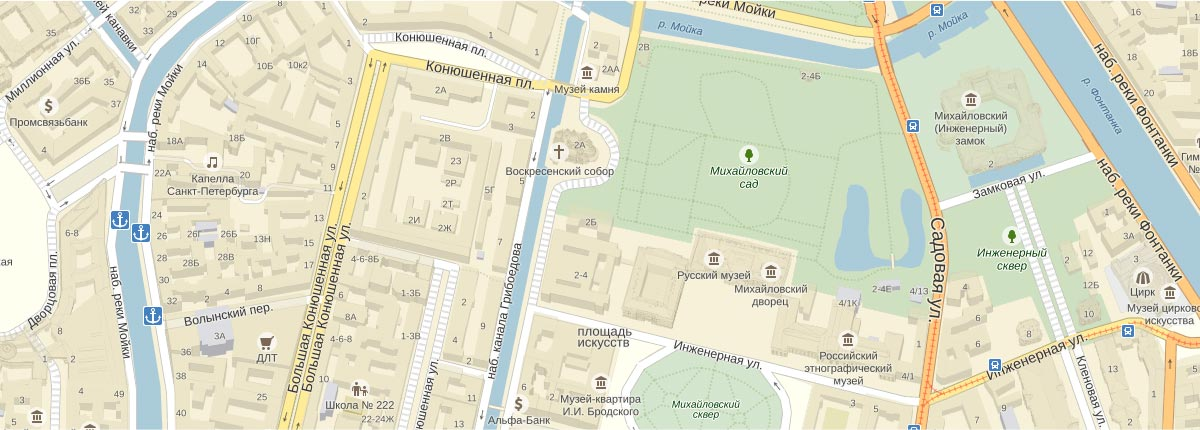
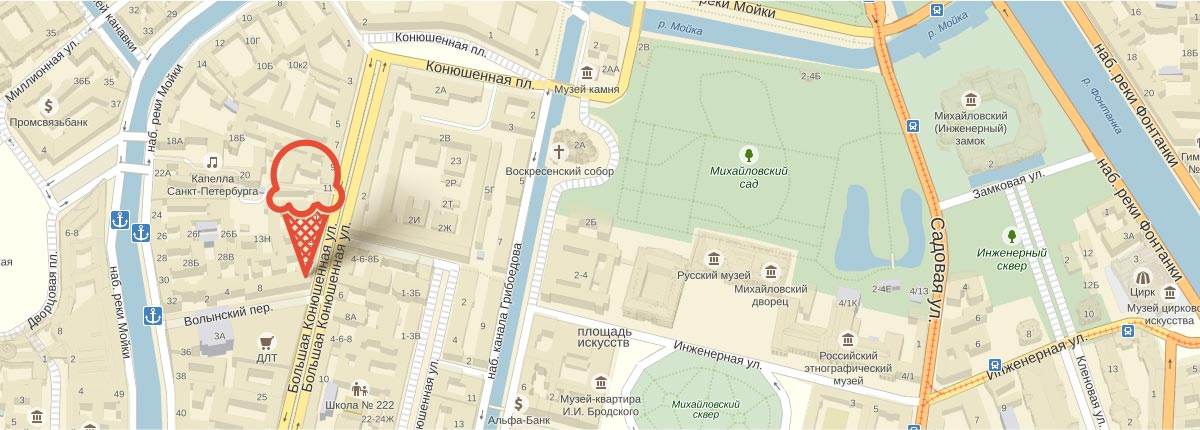
Закончена верста + исправлен JS
- Исправила цену
- Убрала обводку у полей
- Заменила карту
- решила проблему с JS

Осталось добавить интерактивную карту

Changed region(s): [[0.2158, 0.3023, 0.37, 0.6651]]

diff --git a/catalog.html b/catalog.html
@@ -169,28 +169,36 @@
   				<div class="catalog-row clearfix">
   					<div class="catalog-item quickview">
   						<img width="100%" src="img/Catalog/catalog_item_1.png" alt="Сливочное с апельсиновым джемом и цитрусовой стружкой">
-  						<span class="price">310<img class="ruble" width="27" src="img/Catalog/ruble.svg" alt="Р"><strong>/кг</strong></span>
+  						<div class="price">
+                <span class="price">310<img class="ruble" width="27" src="img/Catalog/ruble.svg" alt="Р"><strong>/кг</strong></span>      
+              </div>
   						<a href="#">Сливочное с апельсиновым джемом и цитрусовой стружкой</a>
               <a class="button" href="#">Быстрый просмотр</a>
   					</div>
 
   					<div class="catalog-item quickview">
               <img width="100%" src="img/Catalog/catalog_item_3.png" alt="Cливочно-клубничное с посыпкой из белого шоколада">
-  						<span class="price">380<img class="ruble" width="27" src="img/Catalog/ruble.svg" alt="Р"><strong>/кг</strong></span>
+  						<div class="price">
+                <span class="price">380<img class="ruble" width="27" src="img/Catalog/ruble.svg" alt="Р"><strong>/кг</strong></span>      
+              </div>
   						<a href="#">Cливочно-клубничное с посыпкой из белого шоколада</a>
               <a class="button" href="#">Быстрый просмотр</a>
   					</div>
 
   					<div class="catalog-item quickview">
   						<img width="100%" src="img/Catalog/catalog_item_2.png" alt="Сливочно-кофейное с кусочками шоколада">
-  						<span class="price">355<img class="ruble" width="27" src="img/Catalog/ruble.svg" alt="Р"><strong>/кг</strong></span>
+  						<div class="price">
+                <span class="price">355<img class="ruble" width="27" src="img/Catalog/ruble.svg" alt="Р"><strong>/кг</strong></span>      
+              </div>
   						<a href="#">Сливочно-кофейное с кусочками шоколада</a>
               <a class="button" href="#">Быстрый просмотр</a>
   					</div>
 
   					<div class="catalog-item quickview">
   						<img width="100%" src="img/Catalog/catalog_item_4.png" alt="Сливочное крем-брюле с карамельной подливкой">
-  						<span class="price">415<img class="ruble" width="27" src="img/Catalog/ruble.svg" alt="Р"><strong>/кг</strong></span>
+  						<div class="price">
+                <span class="price">415<img class="ruble" width="27" src="img/Catalog/ruble.svg" alt="Р"><strong>/кг</strong></span>      
+              </div>
   						<a href="#">Сливочное крем-брюле с карамельной подливкой</a>
               <a class="button" href="#">Быстрый просмотр</a>
   					</div>
@@ -200,28 +208,36 @@
   				<div class="catalog-row clearfix">
   					<div class="catalog-item quickview">
   						<img width="100%" src="img/Catalog/catalog_item_5.png" alt="Сливочное с брусничным джемом">
-  						<span class="price">325<img class="ruble" width="27" src="img/Catalog/ruble.svg" alt="Р"><strong>/кг</strong></span>
+  						<div class="price">
+                <span class="price">325<img class="ruble" width="27" src="img/Catalog/ruble.svg" alt="Р"><strong>/кг</strong></span>      
+              </div>
   						<a href="#">Сливочное с брусничным джемом</a>
   						<a class="button" href="#">Быстрый просмотр</a>
   					</div>
 
   					<div class="catalog-item quickview">
   						<img width="100%" src="img/Catalog/catalog_item_6.png" alt="Сливочно-черничное с цельными ягодами черники">
-  						<span class="price">410<img class="ruble" width="27" src="img/Catalog/ruble.svg" alt="Р"><strong>/кг</strong></span>
+  						<div class="price">
+                <span class="price">410<img class="ruble" width="27" src="img/Catalog/ruble.svg" alt="Р"><strong>/кг</strong></span>      
+              </div>
   						<a href="#">Сливочно-черничное с цельными ягодами черники</a>
   						<a class="button" href="#">Быстрый просмотр</a>
   					</div>
 
   					<div class="catalog-item quickview">
   						<img width="100%" src="img/Catalog/catalog_item_7.png" alt="Сливочно-лимонное с карамельной посыпкой">
-  						<span class="price">375<img class="ruble" width="27" src="img/Catalog/ruble.svg" alt="Р"><strong>/кг</strong></span>
+  						<div class="price">
+                <span class="price">375<img class="ruble" width="27" src="img/Catalog/ruble.svg" alt="Р"><strong>/кг</strong></span>      
+              </div>
   						<a href="#">Сливочно-лимонное с карамельной посыпкой</a>
   						<a class="button" href="#">Быстрый просмотр</a>
   					</div>
 
   					<div class="catalog-item quickview">
   						<img width="100%" src="img/Catalog/catalog_item_8.png" alt="Сливочное с шоколадной стружкой">
-  				    <span class="price">320<img class="ruble" width="27" src="img/Catalog/ruble.svg" alt="Р"><strong>/кг</strong></span>
+  				    <div class="price">
+                  <span class="price">320<img class="ruble" width="27" src="img/Catalog/ruble.svg" alt="Р"><strong>/кг</strong></span>    
+              </div>
   						<a href="#">Сливочное с шоколадной стружкой</a>
   						<a class="button" href="#">Быстрый просмотр</a>
   					</div>
@@ -231,28 +247,36 @@
   				<div class="catalog-row clearfix">
   					<div class="catalog-item quickview">
   						<img width="100%" src="img/Catalog/catalog_item_9.png" alt="Сливочное с шоколадной стружкой">
-  						<span class="price">440<img class="ruble" width="27" src="img/Catalog/ruble.svg" alt="Р"><strong>/кг</strong></span>
+  						<div class="price">
+                <span class="price">440<img class="ruble" width="27" src="img/Catalog/ruble.svg" alt="Р"><strong>/кг</strong></span>      
+              </div>
   						<a href="#">Сливочно-ванильное с кусочками шоколада</a>
   						<a class="button" href="#">Быстрый просмотр</a>
   					</div>
 
   					<div class="catalog-item quickview">
   						<img width="100%" src="img/Catalog/catalog_item_10.png" alt="Сливочное с ментоловым сиропом">
-  						<span class="price">435<img class="ruble" width="27" src="img/Catalog/ruble.svg" alt="Р"><strong>/кг</strong></span>
+  						<div class="price">
+                <span class="price">435<img class="ruble" width="27" src="img/Catalog/ruble.svg" alt="Р"><strong>/кг</strong></span>      
+              </div>
   						<a href="#">Сливочное с ментоловым сиропом</a>
   						<a class="button" href="#">Быстрый просмотр</a>
   					</div>
 
   					<div class="catalog-item quickview">
   						<img width="100%" src="img/Catalog/catalog_item_11.png" alt="Cливчное с кусочками сливочного шоколада">
-  						<span class="price">355<img class="ruble" width="27" src="img/Catalog/ruble.svg" alt="Р"><strong>/кг</strong></span>
+  						<div class="price">
+                <span class="price">355<img class="ruble" width="27" src="img/Catalog/ruble.svg" alt="Р"><strong>/кг</strong></span>      
+              </div>
   						<a href="#">Cливчное с кусочками черного шоколада</a>
   						<a class="button" href="#">Быстрый просмотр</a>
   					</div>
 
   					<div class="catalog-item quickview">
   						<img width="100%" src="img/Catalog/catalog_item_12.png" alt="Сливочное с мятным сиропом">
-  						<span class="price">420<img class="ruble" width="27" src="img/Catalog/ruble.svg" alt="Р"><strong>/кг</strong></span>
+  						<div class="price">
+                <span class="price">420<img class="ruble" width="27" src="img/Catalog/ruble.svg" alt="Р"><strong>/кг</strong></span>      
+              </div>
   						<a href="#">Сливочное с мятным сиропом</a>
   						<a class="button" href="#">Быстрый просмотр</a>
   					</div>

diff --git a/css/style.css b/css/style.css
@@ -39,7 +39,9 @@ h3{
 
 input:focus,
 select:focus,
-a:focus {
+a:focus,
+textarea:focus,
+button:focus {
   outline: none;
 }
 
@@ -70,7 +72,6 @@ input.field {
 
 
 .container {
-  outline: 1px solid red;
   position: relative;
   min-width: 900px;
   max-width: 1200px;
@@ -736,14 +737,15 @@ input[type="checkbox"]:checked+label::before {
 }
 
 .catalog-item .price {
+  margin-top: -65px;
+  margin-bottom: 25px; 
+  vertical-align: middle;
   text-align: left;
-  margin-top: ;
   font-size: 45px;
   line-height: 13.13px;
   font-weight: 700;
-  vertical-align: bottom;
-  margin-top: -65px;
-  margin-bottom: 25px;
+  
+
   text-shadow: 1px 1px 3px rgba(49, 50, 53, 0.5);
 }
 
@@ -1038,18 +1040,6 @@ input[type="checkbox"]:checked+label::before {
   width: 100%;
   height: 430px;
   background: url('../img/Index/map.jpg') no-repeat center center;
-/*Решить проблему с обрывающейся картой*/
-}
-
-.map::before {
-  content: "";
-  position: absolute;
-  width: 218px;
-  height: 142px;
-  left: 25%;
-  bottom: 149px;
-  background: url('../img/Index/map_pin.png') no-repeat;
-  /*Маркер*/
 }
 
 .adress {
@@ -1270,7 +1260,14 @@ input[type="checkbox"]:checked+label::before {
 /*Попапы*/
 
   .popup-wrap {
+    position: relative;
     display: none;
+    position: fixed;
+
+    z-index: 1000;
+  }
+
+  .popup-overlay {
     position: fixed;
     top: 0;
     bottom: 0;
@@ -1278,7 +1275,7 @@ input[type="checkbox"]:checked+label::before {
     left: 0;
     background: rgba(0, 0, 0, 0.2);
 
-    z-index: 999;
+    z-index: 1;
   }
 
  .popup-feedback {
@@ -1294,7 +1291,7 @@ input[type="checkbox"]:checked+label::before {
   border-radius: 10px;
   background: #f8f7f4;
 
-  z-index: 1000;
+  z-index: 2;
 }
 
 .popup-feedback span {
@@ -1317,14 +1314,15 @@ input[type="checkbox"]:checked+label::before {
 
 .popup-feedback input {
   margin-top: 20px;
+  padding-left: 20px;
 }
 
 .popup-feedback textarea {
   width: 430px;
   height: 155px;
   margin-top: 20px;
-  padding: 15px 20px;
-  border-radius: 15px;
+  padding: 10px 20px;
+  border-radius: 5px;
   border: 1px solid #d3d3d2;
   font-size: 16px;
   line-height: 24.3px;

diff --git a/js/script.js b/js/script.js
@@ -1,35 +1,36 @@
       var link = document.querySelector(".adress .feedback");
       var popup = document.querySelector(".popup-wrap");
       var close = popup.querySelector(".popup-close");
+      var overlay = popup.querySelector(".popup-overlay")
 
       var form = popup.querySelector("form");
-      var name = popup.querySelector("[name=name]");
+      var login = popup.querySelector("[name=name]");
       var email = popup.querySelector("[name=feedback-email]");
 
       link.addEventListener("click", function(event) {
         event.preventDefault();
         popup.classList.add("popup-wrap-show");
-        name.focus();
+        login.focus();
       });
 
       close.addEventListener("click", function(event) {
         event.preventDefault();
         popup.classList.remove("popup-wrap-show");
-        popup.classList.remove("popup-error");
+        form.classList.remove("popup-error");
       });
 
-      popup.addEventListener("click", function(event) {
+      overlay.addEventListener("click", function(event) {
         event.preventDefault();
         popup.classList.remove("popup-wrap-show");
-        popup.classList.remove("popup-error");
+        form.classList.remove("popup-error");
       });
 
       form.addEventListener("submit", function(event) {
         if (!email.value) {
           event.preventDefault();
-          popup.classList.remove("popup-error");
-          popup.offsetWidth = popup.offsetWidth;
-          popup.classList.add("popup-error");
+          form.classList.remove("popup-error");
+          form.offsetWidth = popup.offsetWidth;
+          form.classList.add("popup-error");
         }
       });
 
@@ -37,7 +38,7 @@
         if (event.keyCode === 27) {
           if (popup.classList.contains("popup-wrap-show")) {
             popup.classList.remove("popup-wrap-show");
-            popup.classList.remove("popup-error");
+            form.classList.remove("popup-error");
           }
         }
       });

diff --git a/index.html b/index.html
@@ -254,12 +254,13 @@
 	</div>
 
   <div class="popup-wrap">
+    <div class="popup-overlay"></div>
 		<div class="popup-feedback">
 			<span>Мы обязательно вам ответим!</span>
       <a class="popup-close" href="#">Закрыть</a>
 			<form action="#" method="post">
 				<input class="field" name="name" placeholder="Как вас зовут?">
-				<input class="field" type="email" name="feedback-email" placeholder="Ваша почта для ответа?" required>
+				<input class="field" type="email" name="feedback-email" placeholder="Ваша почта для ответа?">
 				<textarea placeholder="Напишите что-нибудь..."></textarea>
 				<button type="submit">Отправить</button>
 			</form>
